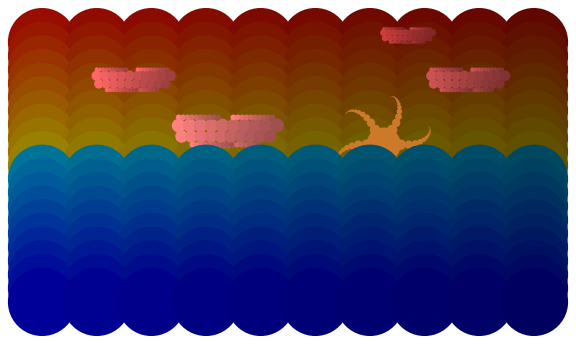
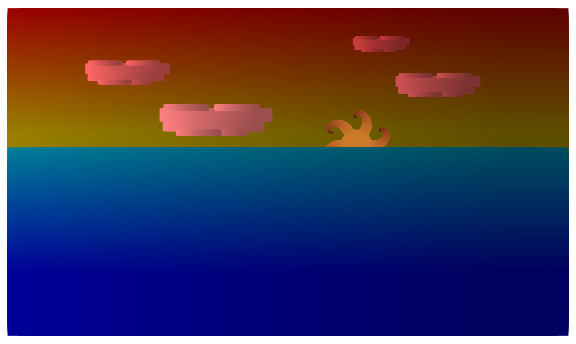
Finished Context Free work, modified image a bit to make it smoother.

diff --git a/context-free.md b/context-free.md
@@ -2,21 +2,49 @@
 
 ##  Who is this programming language for?
 
+I could see Context Free being used as a language for artists
+(with at least some programming background), almost like a unique 
+medium.
 
 ## What is easy to do in this language? Why is it easy?
 
+The nature of functions and simple recursion make this language great
+for images with repeated patterns. I also really like how loops can
+be written with a transformation to occur each step of the loop, 
+it allows for nice gradients and size changes, etc.
 
 ## What is hard to do in this language? Why is it hard?
 
+Making realistic/less abstract art seems incredibly difficult, because
+any shape you want to draw needs to be composed of circles squares and
+triangles, so you really need to build from the ground up.
 
 ## How did you learn how to program in this language?
 
+I started by looking at the pre-installed example programs. From there I took
+snipets and messed around manipulating them, and tried to do some things of
+my own (such as make a fake mandlebrot fractal that would look vaguely like
+the real one). As I continued working, I gained more proficiency with the
+aspects of the language I was using, though not with a whole lot else.
 
 ## What is the underlying _computational model_ for this programming language? 
 _We don't yet have a great definition of the term "computational model". 
 For now, try to come up with the clearest, most concise explanation of what 
 happens when a ContextFree program runs._
 
+Rules are followed with some stack of transformations to be applied until a
+base shape is hit. That shape is drawn with those transformations, then
+traversal continues, moving back up the stack when appropriate and down into
+new leaves, etc, until all rules have been executed/some minimum size of a
+shape is hit (at which point that branch will move back up the stack), or
+the image overflows.
 
 ## What do you think is interesting about the ContextFree program you wrote?
 
+I did two interesting things with my program: I tried to make it from 
+scratch, and I tried to create a non-abstract picture. For the former,
+I mean that after looking at examples, I then closed their code and opened
+a blank document, so that the image would accurately reflect my understanding
+and abilities with context free. For the second, I actually started making
+abstract shapes, but then decided that was boring and wanted to see just
+how difficult making more typical images might be.
